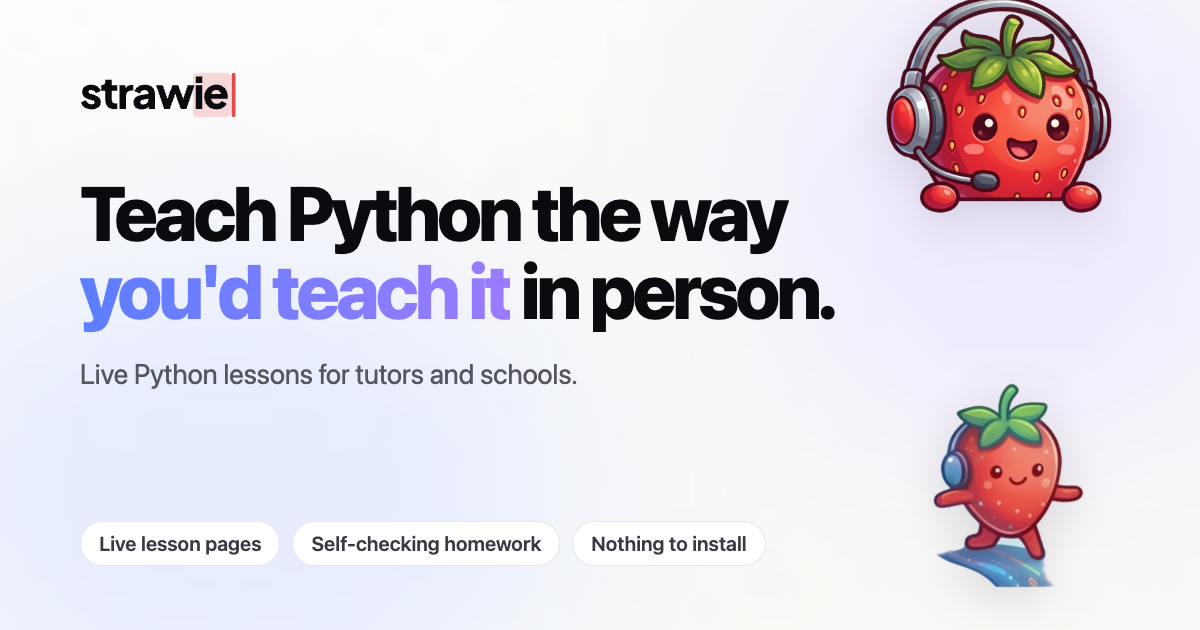
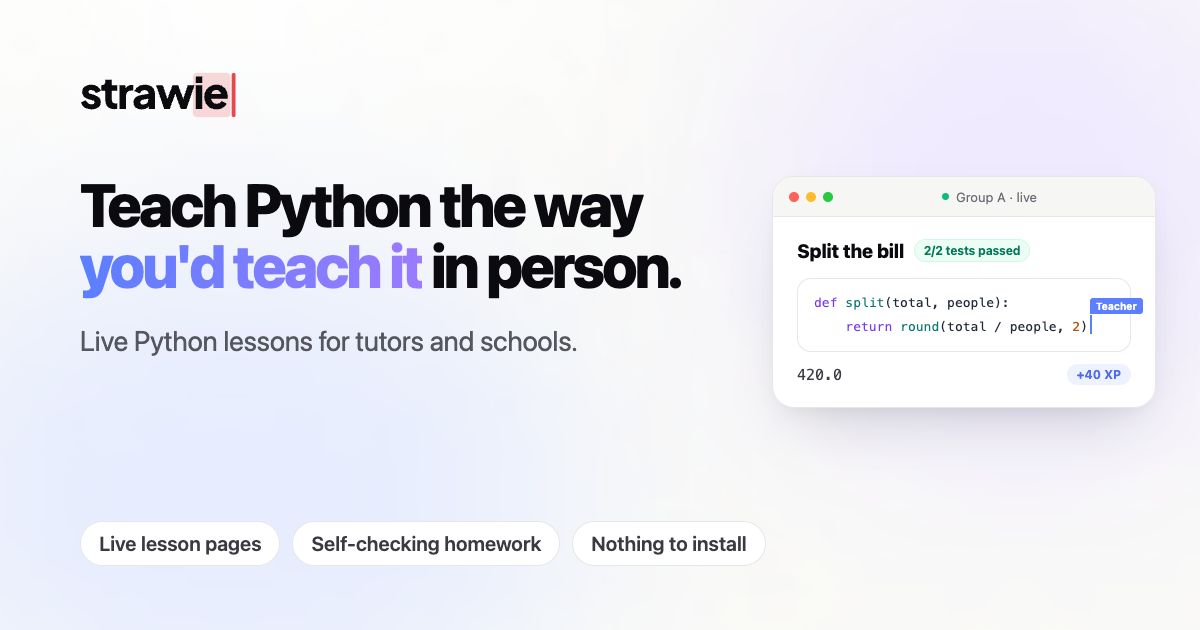
fix(meta): link preview without mascots
Replace the mascots in the share image with a small live-lesson card,
and version the image URL so crawlers fetch the new one.

diff --git a/frontend-vite/index.html b/frontend-vite/index.html
@@ -12,13 +12,13 @@
     <meta property="og:url" content="https://strawie.dev/" />
     <meta property="og:title" content="Strawie — live Python lessons for tutors and schools" />
     <meta property="og:description" content="Shared lesson pages, solo practice, and homework that checks itself. Runs in the browser, nothing to install." />
-    <meta property="og:image" content="https://strawie.dev/og.png" />
+    <meta property="og:image" content="https://strawie.dev/og.png?v=2" />
     <meta property="og:image:width" content="1200" />
     <meta property="og:image:height" content="630" />
     <meta name="twitter:card" content="summary_large_image" />
     <meta name="twitter:title" content="Strawie — live Python lessons for tutors and schools" />
     <meta name="twitter:description" content="Shared lesson pages, solo practice, and homework that checks itself. Runs in the browser, nothing to install." />
-    <meta name="twitter:image" content="https://strawie.dev/og.png" />
+    <meta name="twitter:image" content="https://strawie.dev/og.png?v=2" />
     <!-- Fonts: CSS uses "Plus Jakarta Sans" / "DM Mono" with system-ui and
          ui-monospace fallbacks. No CDN fetch — keeps CSP strict and removes
          a third-party trust dependency. Users see system fonts unless they
